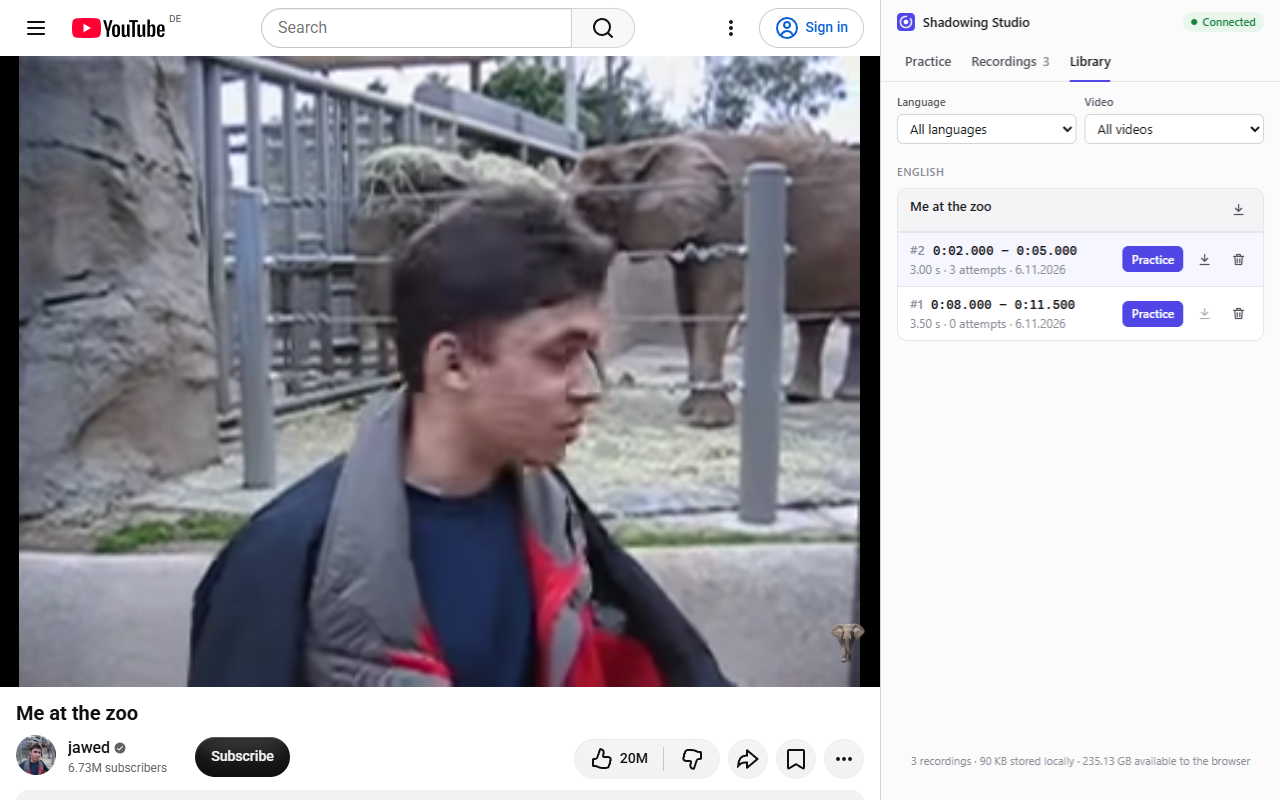
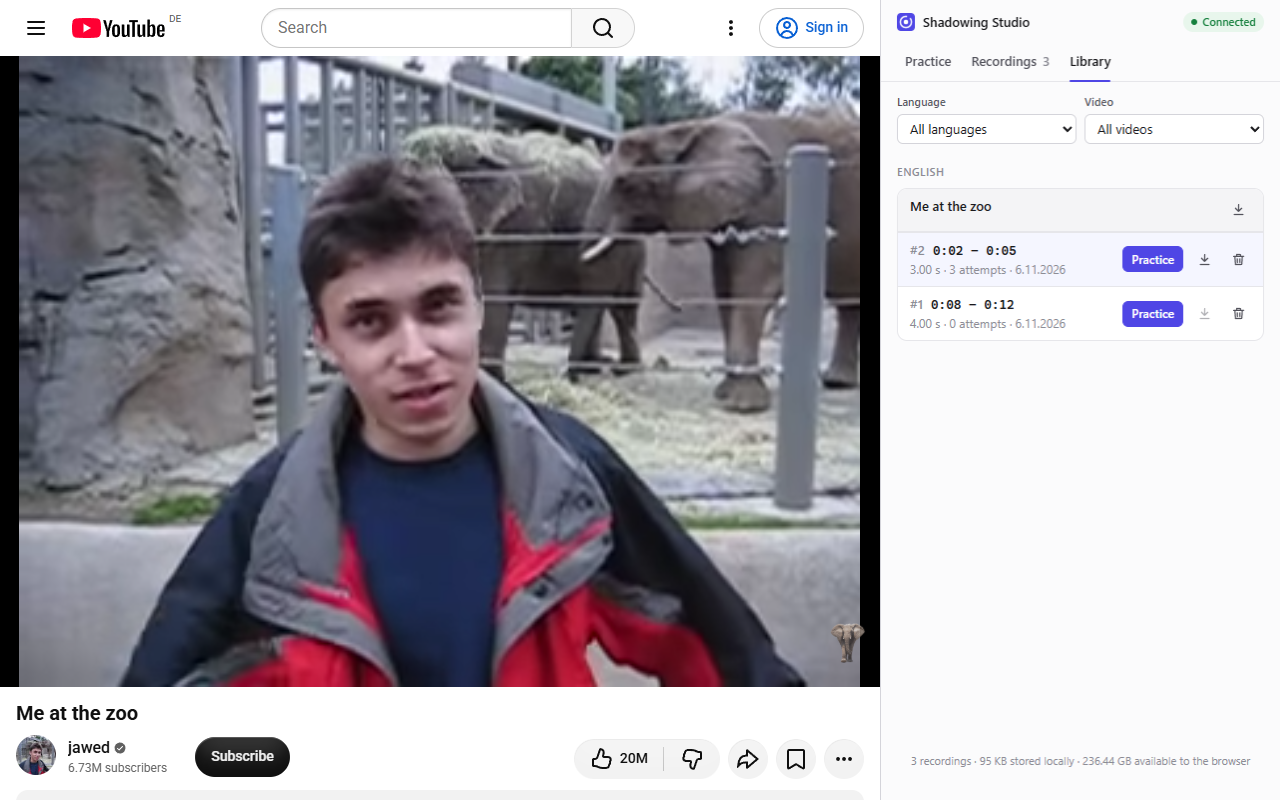
Rename to Shadowing Studio; whole-second times; simpler language field
- Language is a plain text field (no suggestion list or autofill)
- Segment times use HH:MM:SS; starts round down and ends round up so a
  sentence is never clipped; Library and Recordings show whole seconds
- Hint icon sized to the text; example time shown as 00:01:23
- Official name "Shadowing Studio" in the manifest, docs and store kit;
  store screenshots regenerated

diff --git a/src/sidepanel/App.tsx b/src/sidepanel/App.tsx
@@ -2,7 +2,7 @@ import fixWebmDuration from 'fix-webm-duration';
 import { useCallback, useEffect, useMemo, useReducer, useRef, useState } from 'react';
 import type { PlayerCommand, PlayerEvent, PlayerState } from '../shared/messages';
 import { sameBounds, validateSegment } from '../shared/segment';
-import { formatTimestamp, parseTimestamp } from '../shared/time';
+import { formatTimestamp, parseTimestamp, toWholeSeconds } from '../shared/time';
 import { DEFAULT_SETTINGS, watchUrl, type PracticeMode, type Recording, type Segment, type Settings } from '../shared/types';
 import { ShadowingStore, type FixDuration } from '../storage/db';
 import { LibraryView } from './components/LibraryView';
@@ -43,6 +43,11 @@ const fixedTabId = (() => {
   return v && /^\d+$/.test(v) ? Number(v) : undefined;
 })();
 
+/** End rounds up so the sentence is not clipped, but never past the end of the video. */
+function endTimestamp(time: number, duration: number): string {
+  return Number.isFinite(duration) && toWholeSeconds(time, 'ceil') > duration ? formatTimestamp(duration, 'floor') : formatTimestamp(time, 'ceil');
+}
+
 function errorText(err: unknown): string {
   return err instanceof Error ? err.message : String(err);
 }
@@ -56,7 +61,6 @@ export function App() {
   const [language, setLanguage] = useState(DEFAULT_SETTINGS.language);
   const [saved, setSaved] = useState<Segment | null>(null);
   const [videoSegments, setVideoSegments] = useState<Segment[]>([]);
-  const [knownLanguages, setKnownLanguages] = useState<string[]>([]);
   const [recordings, setRecordings] = useState<Recording[]>([]);
   const [recStatus, setRecStatus] = useState<RecorderStatus>('idle');
   const [phase, setPhase] = useState<RepeatPhase>('idle');
@@ -140,7 +144,6 @@ export function App() {
       setSettings(s);
       setLanguage(s.language);
     });
-    void store.listSegments().then((segs) => setKnownLanguages([...new Set(segs.map((s) => s.language))]), () => undefined);
     void navigator.storage?.persist?.().catch(() => undefined);
     (recovery ??= store.recoverDrafts(fixDuration, recorder.activeDraftIds()))
       .then((recovered) => {
@@ -208,7 +211,7 @@ export function App() {
     } else {
       // A segment already in the content script (e.g. panel reopened while looping) is adopted.
       const s = live.current.player?.segment;
-      setWs({ videoId: playerVideoId, segmentId: null, startText: s ? formatTimestamp(s.start) : '', endText: s ? formatTimestamp(s.end) : '' });
+      setWs({ videoId: playerVideoId, segmentId: null, startText: s ? formatTimestamp(s.start, 'floor') : '', endText: s ? formatTimestamp(s.end, 'ceil') : '' });
       setSaved(null);
       setRecordings([]);
       void store.listSegmentsForVideo(playerVideoId).then((segs) => {
@@ -243,7 +246,7 @@ export function App() {
   }, [boundsKey, onCurrentVideo, send]);
 
   function loadSegment(seg: Segment) {
-    setWs({ videoId: seg.videoId, segmentId: seg.id, startText: formatTimestamp(seg.start), endText: formatTimestamp(seg.end) });
+    setWs({ videoId: seg.videoId, segmentId: seg.id, startText: formatTimestamp(seg.start, 'floor'), endText: formatTimestamp(seg.end, 'ceil') });
     setSaved(seg);
     setLanguage(seg.language);
     setHighlightId(null);
@@ -276,7 +279,6 @@ export function App() {
     setWs((w) => ({ ...w, segmentId: seg.id }));
     setSaved(seg);
     setRecordings([]);
-    setKnownLanguages((l) => (l.includes(lang) ? l : [...l, lang]));
     void refreshVideoSegments(seg.videoId);
     bumpLibrary();
     return seg;
@@ -553,7 +555,6 @@ export function App() {
             onReloadTab={() => void connRef.current?.reloadTab()}
             onOpenYouTube={() => void chrome.tabs.create({ url: 'https://www.youtube.com/' })}
             language={language}
-            knownLanguages={knownLanguages}
             onLanguageChange={(l) => {
               setLanguage(l);
               if (l.trim()) updateSettings({ language: l.trim() });
@@ -562,8 +563,8 @@ export function App() {
             endText={ws.endText}
             onStartChange={setStartText}
             onEndChange={setEndText}
-            onSetStartNow={() => player && setStartText(formatTimestamp(player.currentTime))}
-            onSetEndNow={() => player && setEndText(formatTimestamp(player.currentTime))}
+            onSetStartNow={() => player && setStartText(formatTimestamp(player.currentTime, 'floor'))}
+            onSetEndNow={() => player && setEndText(endTimestamp(player.currentTime, player.duration))}
             segmentError={segmentError}
             segmentLength={segmentLength}
             saveState={saveState}

diff --git a/src/sidepanel/components/PracticeView.tsx b/src/sidepanel/components/PracticeView.tsx
@@ -1,6 +1,6 @@
 import { useEffect, useState } from 'react';
 import type { PlayerState } from '../../shared/messages';
-import { formatClock, formatSegmentLength, formatTimestamp, parseTimestamp } from '../../shared/time';
+import { formatClock, formatSegmentLength, formatTimestamp, parseTimestamp, type Rounding } from '../../shared/time';
 import type { PracticeMode, Segment } from '../../shared/types';
 import type { MicPermission } from '../microphone';
 import type { Connection } from '../player';
@@ -10,8 +10,6 @@ import { Banner, Card, Empty, Icon, Segmented } from './ui';
 export type RepeatPhase = 'idle' | 'listening' | 'your-turn' | 'done';
 export type SaveState = 'new' | 'saved' | 'modified' | 'modified-new';
 
-const LANGUAGES = ['English', 'Spanish', 'French', 'German', 'Italian', 'Portuguese', 'Japanese', 'Korean', 'Chinese', 'Russian', 'Arabic', 'Dutch'];
-
 export interface PracticeViewProps {
   connection: Connection;
   player: PlayerState | null;
@@ -19,7 +17,6 @@ export interface PracticeViewProps {
   onOpenYouTube: () => void;
 
   language: string;
-  knownLanguages: string[];
   onLanguageChange: (language: string) => void;
 
   startText: string;
@@ -154,30 +151,25 @@ function VideoCard(p: PracticeViewProps) {
         <span className="field-label">Language</span>
         <input
           className="input"
-          list="yss-languages"
           value={p.language}
           onChange={(e) => p.onLanguageChange(e.target.value)}
           onBlur={(e) => !e.target.value.trim() && p.onLanguageChange('English')}
           placeholder="e.g. Spanish"
+          autoComplete="off"
           maxLength={40}
         />
-        <datalist id="yss-languages">
-          {[...new Set([...p.knownLanguages, ...LANGUAGES])].map((l) => (
-            <option key={l} value={l} />
-          ))}
-        </datalist>
       </label>
     </Card>
   );
 }
 
-function TimeField({ label, value, onCommit, onSetNow, invalid }: { label: string; value: string; onCommit: (v: string) => void; onSetNow: () => void; invalid: boolean }) {
+function TimeField({ label, value, onCommit, onSetNow, invalid, rounding }: { label: string; value: string; onCommit: (v: string) => void; onSetNow: () => void; invalid: boolean; rounding: Rounding }) {
   const [text, setText] = useState(value);
   useEffect(() => setText(value), [value]);
   const commit = () => {
     const parsed = parseTimestamp(text);
-    // Normalise valid input to HH:MM:SS.mmm; keep invalid text so the error can be fixed in place.
-    const normalised = parsed === null ? text.trim() : formatTimestamp(parsed);
+    // Normalise valid input to HH:MM:SS; keep invalid text so the error can be fixed in place.
+    const normalised = parsed === null ? text.trim() : formatTimestamp(parsed, rounding);
     setText(normalised);
     if (normalised !== value) onCommit(normalised);
   };
@@ -188,7 +180,7 @@ function TimeField({ label, value, onCommit, onSetNow, invalid }: { label: strin
         <input
           className="input mono"
           value={text}
-          placeholder="00:00:00.000"
+          placeholder="00:00:00"
           spellCheck={false}
           inputMode="decimal"
           aria-invalid={invalid}
@@ -226,12 +218,12 @@ function SegmentCard(p: PracticeViewProps & { player: PlayerState }) {
       }
     >
       <div className="time-grid">
-        <TimeField label="Start" value={p.startText} onCommit={p.onStartChange} onSetNow={p.onSetStartNow} invalid={!!p.segmentError && !empty} />
-        <TimeField label="End" value={p.endText} onCommit={p.onEndChange} onSetNow={p.onSetEndNow} invalid={!!p.segmentError && !empty} />
+        <TimeField label="Start" value={p.startText} onCommit={p.onStartChange} onSetNow={p.onSetStartNow} invalid={!!p.segmentError && !empty} rounding="floor" />
+        <TimeField label="End" value={p.endText} onCommit={p.onEndChange} onSetNow={p.onSetEndNow} invalid={!!p.segmentError && !empty} rounding="ceil" />
       </div>
       {empty ? (
         <p className="hint">
-          Play the video and press <Icon name="target" /> at the start and the end of a sentence, or type times like <span className="mono">1:23.5</span>.
+          Play the video and press <Icon name="target" /> at the start and the end of a sentence, or type times like <span className="mono">00:01:23</span>.
         </p>
       ) : p.segmentError ? (
         <p className="error-text">{p.segmentError}</p>

diff --git a/tests/time.test.ts b/tests/time.test.ts
@@ -1,6 +1,6 @@
 import { describe, expect, it } from 'vitest';
 import { MIN_SEGMENT_SECONDS, sameBounds, validateSegment } from '../src/shared/segment';
-import { formatClock, formatSegmentLength, formatTimestamp, parseTimestamp } from '../src/shared/time';
+import { formatClock, formatSegmentLength, formatTimestamp, parseTimestamp, toWholeSeconds } from '../src/shared/time';
 
 describe('parseTimestamp', () => {
   it.each([
@@ -30,24 +30,34 @@ describe('parseTimestamp', () => {
 
 describe('formatTimestamp', () => {
   it.each([
-    [0, '00:00:00.000'],
-    [1.5, '00:00:01.500'],
-    [59.9996, '00:01:00.000'],
-    [3723.456, '01:02:03.456'],
-    [360000, '100:00:00.000'],
-  ])('formats %d', (input, expected) => {
+    [0, '00:00:00'],
+    [1.4, '00:00:01'],
+    [1.5, '00:00:02'],
+    [59.6, '00:01:00'],
+    [3723.456, '01:02:03'],
+    [360000, '100:00:00'],
+  ])('formats %d as HH:MM:SS', (input, expected) => {
     expect(formatTimestamp(input)).toBe(expected);
   });
 
-  it('handles invalid input', () => {
-    expect(formatTimestamp(NaN)).toBe('00:00:00.000');
-    expect(formatTimestamp(-1)).toBe('00:00:00.000');
-    expect(formatTimestamp(Infinity)).toBe('00:00:00.000');
+  it('rounds segment starts down and ends up, so a sentence is never clipped', () => {
+    expect(formatTimestamp(83.9, 'floor')).toBe('00:01:23');
+    expect(formatTimestamp(83.1, 'ceil')).toBe('00:01:24');
+    expect(formatTimestamp(83, 'ceil')).toBe('00:01:23');
+    // Float noise must not push an exact second to the next one.
+    expect(toWholeSeconds(4.0000001, 'ceil')).toBe(4);
+    expect(toWholeSeconds(3.9999999, 'floor')).toBe(4);
   });
 
-  it('round-trips with parseTimestamp', () => {
-    for (const t of [0, 0.001, 1.234, 61.5, 3599.999, 7322.01]) {
-      expect(parseTimestamp(formatTimestamp(t))).toBeCloseTo(t, 3);
+  it('handles invalid input', () => {
+    expect(formatTimestamp(NaN)).toBe('00:00:00');
+    expect(formatTimestamp(-1)).toBe('00:00:00');
+    expect(formatTimestamp(Infinity)).toBe('00:00:00');
+  });
+
+  it('round-trips whole seconds with parseTimestamp', () => {
+    for (const t of [0, 1, 61, 3599, 7322]) {
+      expect(parseTimestamp(formatTimestamp(t))).toBe(t);
     }
   });
 });

diff --git a/src/shared/time.ts b/src/shared/time.ts
@@ -3,7 +3,8 @@
 const TIMESTAMP_RE = /^(?:(?:(\d+):)?(\d{1,2}):)?(\d{1,2})(?:[.,](\d{1,3}))?$/;
 
 /**
- * Parses `HH:MM:SS.mmm` and the shorter forms people type: `MM:SS`, `M:SS.5`, `SS`, `SS.mmm`.
+ * Parses `HH:MM:SS` and the shorter forms people type: `MM:SS`, `SS`. A fractional part
+ * (`1:23.5`) is accepted; segment fields then round it to whole seconds.
  * Minutes and seconds must be < 60 when a larger unit is present. Returns null when invalid.
  */
 export function parseTimestamp(input: string): number | null {
@@ -19,14 +20,25 @@ export function parseTimestamp(input: string): number | null {
   return hours * 3600 + minutes * 60 + seconds + ms / 1000;
 }
 
-/** Formats seconds as `HH:MM:SS.mmm` (rounded to the millisecond). */
-export function formatTimestamp(seconds: number): string {
-  if (!Number.isFinite(seconds) || seconds < 0) return '00:00:00.000';
-  const totalMs = Math.round(seconds * 1000);
-  const totalS = Math.floor(totalMs / 1000);
+export type Rounding = 'nearest' | 'floor' | 'ceil';
+
+/**
+ * Whole seconds for segment boundaries. Starts round down and ends round up, so rounding
+ * never clips the beginning or end of a sentence.
+ */
+export function toWholeSeconds(seconds: number, rounding: Rounding = 'nearest'): number {
+  // Absorb float noise (e.g. 4.0000001 must not ceil to 5).
+  const s = Math.round(seconds * 1000) / 1000;
+  return rounding === 'floor' ? Math.floor(s) : rounding === 'ceil' ? Math.ceil(s) : Math.round(s);
+}
+
+/** Formats seconds as `HH:MM:SS`, rounding to whole seconds. */
+export function formatTimestamp(seconds: number, rounding: Rounding = 'nearest'): string {
+  if (!Number.isFinite(seconds) || seconds < 0) return '00:00:00';
+  const totalS = toWholeSeconds(seconds, rounding);
   const h = Math.floor(totalS / 3600);
   const m = Math.floor(totalS / 60) % 60;
-  return `${pad(h, 2)}:${pad(m, 2)}:${pad(totalS % 60, 2)}.${pad(totalMs % 1000, 3)}`;
+  return `${pad(h, 2)}:${pad(m, 2)}:${pad(totalS % 60, 2)}`;
 }
 
 /** Compact clock for display: `1:05`, `1:02:03`; with `withMs`, `1:05.250`. */

diff --git a/src/shared/segment.ts b/src/shared/segment.ts
@@ -12,8 +12,8 @@ export interface SegmentBounds {
  * Returns a user-facing error message, or null when valid.
  */
 export function validateSegment(start: number | null, end: number | null, duration?: number): string | null {
-  if (start === null || !Number.isFinite(start)) return 'Start time is not a valid timestamp (use HH:MM:SS.mmm).';
-  if (end === null || !Number.isFinite(end)) return 'End time is not a valid timestamp (use HH:MM:SS.mmm).';
+  if (start === null || !Number.isFinite(start)) return 'Start time is not a valid timestamp (use HH:MM:SS).';
+  if (end === null || !Number.isFinite(end)) return 'End time is not a valid timestamp (use HH:MM:SS).';
   if (start < 0) return 'Start time cannot be negative.';
   if (end <= start) return 'End time must be after the start time.';
   if (end - start < MIN_SEGMENT_SECONDS) return `The segment must be at least ${MIN_SEGMENT_SECONDS} s long.`;

diff --git a/tests/filename.test.ts b/tests/filename.test.ts
@@ -71,7 +71,7 @@ describe('planExport', () => {
     const info = files.find((f) => f.path.endsWith('_info.json'))!;
     const json = JSON.parse(await info.blob.text());
     expect(json.video.id).toBe('abcdefghijk');
-    expect(json.segments[0].start).toBe('00:00:01.000');
+    expect(json.segments[0].start).toBe('00:00:01');
     expect(json.segments[0].attempts.map((a: { attempt: number }) => a.attempt)).toEqual([1, 2]);
     expect(json.segments[0].attempts[0].name).toBe('first');
     expect(json.segments[0].attempts[1].file).toBe(files[1].path.split('/').pop());

diff --git a/src/sidepanel/components/LibraryView.tsx b/src/sidepanel/components/LibraryView.tsx
@@ -144,7 +144,7 @@ export function LibraryView(p: LibraryViewProps) {
                         <div className="item-title">
                           <span className="seg-num">#{s.number}</span>
                           <span className="mono">
-                            {formatClock(s.start, true)} – {formatClock(s.end, true)}
+                            {formatClock(s.start)} – {formatClock(s.end)}
                           </span>
                         </div>
                         <div className="subtle">

diff --git a/src/sidepanel/components/RecordingsView.tsx b/src/sidepanel/components/RecordingsView.tsx
@@ -44,7 +44,7 @@ export function RecordingsView(p: RecordingsViewProps) {
         title={`Segment #${seg.number}`}
         actions={
           <span className="mono subtle" style={{ textTransform: 'none', letterSpacing: 0 }}>
-            {formatClock(seg.start, true)} – {formatClock(seg.end, true)}
+            {formatClock(seg.start)} – {formatClock(seg.end)}
           </span>
         }
       >

diff --git a/src/sidepanel/styles.css b/src/sidepanel/styles.css
@@ -637,6 +637,13 @@ select.input {
   margin: 0;
 }
 
+/* Icons inside running text: the size of a letter, sitting on the baseline. */
+.hint svg {
+  width: 1.1em;
+  height: 1.1em;
+  vertical-align: -0.2em;
+}
+
 .error-text {
   font-size: var(--text-sm);
   color: var(--danger);

diff --git a/README.md b/README.md
@@ -1,4 +1,4 @@
-# Shadowing Studio for YouTube
+# Shadowing Studio
 
 A Chrome extension for **shadowing practice** on YouTube. Pick a sentence, loop it, record yourself
 speaking along (or after it), compare your attempts with the original, and keep everything in a local
@@ -6,8 +6,9 @@ practice library. No account, no cloud: recordings stay on your computer.
 
 ## Features
 
-- **Segments**: set start/end from the current position (⌖) or type `HH:MM:SS.mmm`
-  (short forms such as `1:23.5` work too). Inputs are validated against the video length, and the
+- **Segments**: set start/end from the current position (⌖) or type `HH:MM:SS`
+  (short forms such as `1:23` work too). Times are whole seconds: the start rounds down and the end
+  rounds up, so a sentence is never clipped. Inputs are validated against the video length, and the
   segment's length is shown.
 - **Looping**: replays the segment indefinitely, at any playback speed, without fighting YouTube's
   own controls. Looping keeps running if you close the panel.

diff --git a/store/LISTING.md b/store/LISTING.md
@@ -13,7 +13,7 @@ Everything you paste into the [Developer Dashboard](https://chrome.google.com/we
 
 ## Store listing tab
 
-**Name** (taken from the manifest): `Shadowing Studio for YouTube`
+**Name** (taken from the manifest): `Shadowing Studio`
 
 **Summary** (from the manifest `description`, max 132 characters):
 
@@ -31,7 +31,7 @@ Shadowing Studio turns any YouTube video into a speaking drill. Pick one sentenc
 
 HOW IT WORKS
 1. Open a YouTube video and click the Shadowing Studio icon. The practice panel opens beside the video.
-2. Mark the start and end of a sentence with one click each (or type exact times like 1:23.5).
+2. Mark the start and end of a sentence with one click each (or type times like 00:01:23).
 3. Turn on Loop. The sentence repeats seamlessly, at any playback speed.
 4. Record your attempt. Do it again. Every attempt is kept.
 5. Play your attempts back, or press Compare to hear the original followed by your version.

diff --git a/ARCHITECTURE.md b/ARCHITECTURE.md
@@ -1,4 +1,4 @@
-# Shadowing Studio for YouTube — Architecture
+# Shadowing Studio — Architecture
 
 ## Goals and constraints
 
@@ -120,7 +120,7 @@ requirement, so it was left out.
 
 ### Shared (`src/shared`)
 
-Timestamp parsing/formatting (`HH:MM:SS.mmm`), segment validation, filename sanitisation and the
+Timestamp parsing/formatting (`HH:MM:SS`; segment starts round down and ends round up to whole seconds), segment validation, filename sanitisation and the
 typed message contracts (`messages.ts`) that both ends of each port import.
 
 ## Practice modes
